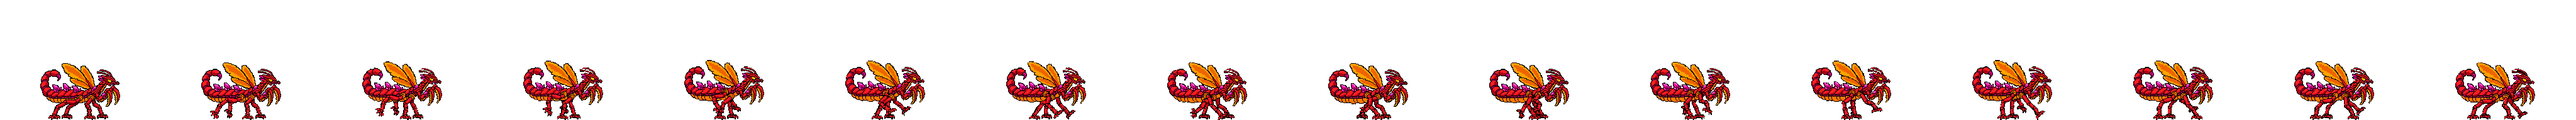
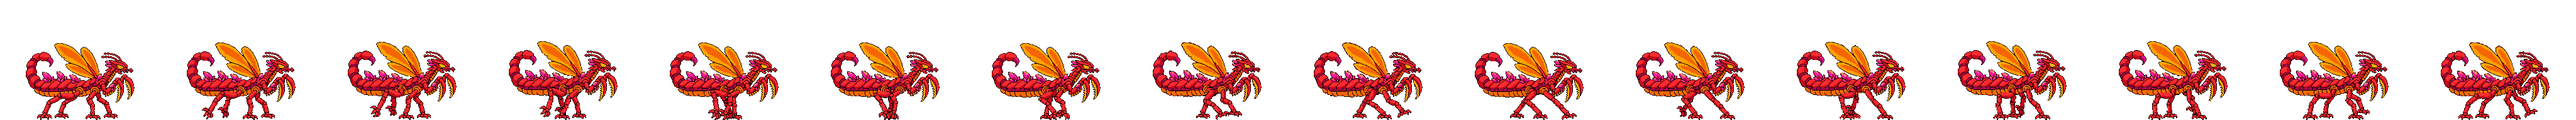
Re-key Myrmex Stage 3 from the thin-outline render, re-roll idle and walk
The user's new render keys to 173x123 at x=41 (was 127x91), reduced to
47 colours. New tools/snap_palette.py snaps strips back to the base
palette: PixelLab draws this outline in dark greys, which clean_greys
would delete. Seed 0 idle and walk, snapped, despecked, walk
bottom-aligned.

Claude-Session: https://claude.ai/code/session_01SJ9dCvdt4BM19y3QYCELUi

Changed region(s): [[0.0, 0.3438, 1.0, 1.0]]

diff --git a/src/presentation.ts b/src/presentation.ts
@@ -82,10 +82,10 @@ const MX2_LEFT={scale:146/256,anchor:15+128*146/256};
 const MX1_NATIVE={scale:116/256,anchor:70+128*116/256};
 // Myrmex Stage 1 attack strips: the same base shifted 40px left (origin at x=30) for room in front of the mandibles.
 const MX1_LEFT={scale:116/256,anchor:30+128*116/256};
-// Myrmex Stage 3 strips: the myrmex-s3 base still, a 127x91 adult (four clawed walking legs, folded scythe forelegs, four orange wasp
-// wings, pink crystals along the back, curled scorpion tail with a magenta stinger) keyed from the user's render with tools/key_render.py
-// --square, origin at x=64 in a 256x192 frame.
-const MX3_NATIVE={scale:127/256,anchor:64+128*127/256};
+// Myrmex Stage 3 strips: the myrmex-s3 base still, a 173x123 adult (four clawed walking legs, folded scythe forelegs, four orange wasp
+// wings, pink crystals along the back, curled scorpion tail with a magenta stinger) keyed from the user's thin-outline render with
+// tools/key_render.py --square and reduced to 47 colours, origin at x=41 in a 256x192 frame.
+const MX3_NATIVE={scale:173/256,anchor:41+128*173/256};
 // Myrmex Stage 3 form (just started): idle and walk; `borrow` plays the Stage 2 strip for every other move.
 const MYRMEX_S3:Form={width:120,borrow:true,anims:{idle:{src:'assets/myrmex-s3-idle.png',frames:8,fps:8,...MX3_NATIVE},
  walk:{src:'assets/myrmex-s3-walk.png',frames:16,fps:15,...MX3_NATIVE}}};

diff --git a/tools/snap_palette.py b/tools/snap_palette.py
@@ -1,0 +1,17 @@
+#!/usr/bin/env python3
+"""Snap every opaque pixel of a strip to the nearest colour (RGB distance) of a base sprite's palette; alpha becomes 0/255.
+Usage: python3 -I tools/snap_palette.py strip.png base.png out.png
+
+PixelLab drifts off a flat base palette: outlines come back as dark greys, edges pick up grey smear. Snapping returns them to the
+base's own colours (dark greys land on the outline black) without deleting anything, so thin outlines and gaps survive. Use it
+on bases already reduced to a small palette (e.g. 48 colours)."""
+import sys, numpy as np
+from PIL import Image
+src, base, out = sys.argv[1:4]
+b = np.asarray(Image.open(base).convert('RGBA')); pal = np.unique(b[b[..., 3] > 0][:, :3], axis=0).astype(int)
+a = np.asarray(Image.open(src).convert('RGBA')).copy(); m = a[..., 3] >= 128
+px = a[m][:, :3].astype(int)
+idx = np.concatenate([((px[i:i + 50000, None, :] - pal[None]) ** 2).sum(2).argmin(1) for i in range(0, len(px), 50000)])
+a[m, :3] = pal[idx]; a[m, 3] = 255; a[~m] = 0
+Image.fromarray(a).save(out, optimize=True)
+print(f'{out}: {m.sum()} px snapped to {len(pal)} colours')

diff --git a/README.md b/README.md
@@ -89,7 +89,7 @@ Score is earned points minus actual HP damage penalty, including healed damage. 
 
 **Myrmex Stage 1 art (complete, registered as `stages[1]`):** `myrmex-s1.png` is the young form: a wingless red ant (glossy segmented abdomen over an orange underbelly, small orange wing buds, a narrow horned skull with a glowing yellow eye and curved mandibles, six long clawed legs, and a short stinger instead of the Stage 2 scorpion tail). Keyed from the user's transparent render with `tools/key_render.py` (grid 11.655x11.995 px per art pixel; `--square` squashed him about 3%, so the measured y period stays) to a 116x74 sprite at x=70, feet on the bottom row of a 256x192 frame (`MX1_NATIVE`: scale 116/256). The stinger tip glowed yellow-orange like Stage 2's and was recoloured to hue 290 at its own lightness (6 pixels) so it reads as poison, not fire. Registered as `MYRMEX_S1` (`stages[1]`, width 120, `borrow`), so every move without Stage 1 art plays the Stage 2 strip. `myrmex-s1-idle` (breathing loop, 8 frames at 8 fps) and `myrmex-s1-walk` (one full stride, 16 frames at 15 fps) are seed 7 PixMiniMax rolls from the base with it as the end pose (seed 0's walk left stray specks; the idles were near-identical); subject "a young red ant kaiju with a segmented glossy red abdomen, orange underbelly, small orange wing buds, horned narrow skull with a glowing yellow eye, curved mandibles, six long clawed legs and a short purple-tipped stinger", pose "standing on six legs facing right, head held level". fill_pinholes and remove_specks (MAX 3); the walk is bottom-aligned (`tools/bottom_align.py`), since it rode up to 6px high mid-stride. `myrmex-s1-run` (Shift / double-tap, 12 frames at 20 fps like Stage 2's) is a seed 0 roll from the base with it as the end pose: a low fast scuttle, legs churning in a tripod gait, head thrust forward (prompt: "fast scuttling run cycle in place: one full stride, legs churning quickly in an alternating tripod gait with long reaching steps, body held low and level, head thrust forward, antennae swept back, no dust or effects"; the user picked it over seed 7 and two 8-frame takes at 15 fps). fill_pinholes, remove_specks (MAX 3), bottom-aligned (it rode 1-2px high). **Jump** (he keeps the floaty jump, two wing-beat air jumps and glide from `MOVE.myrmex*` at every stage, with the wing buds selling it; all seed 7, the user's pick, every strip fill_pinholes / remove_specks (MAX 3) and bottom-aligned since physics moves him): `myrmex-s1-jump-rise` (9 frames at 24 fps, once) is a roll from the base with a free end: he crouches, pushes off, the legs tuck and the wing buds flick up (seed 0 came back down to the street mid-strip); its last frame is the air pose the rest are rolled from. `myrmex-s1-jump-air` (4-frame loop at 12 fps, closed on the air pose) buzzes the buds with the legs dangling; `myrmex-s1-jump-flap` (5 frames at 20 fps, once, played on each air jump as `jumpFlap`, so Stage 1 never flashes the Stage 2 winged flap) snaps the buds up and down as the legs kick; `myrmex-s1-jump-land` (5 frames at 20 fps, once) plants the legs and sinks, its last frame swapped for the exact base so it hands off to the idle cleanly. **Crouch** (shared crouch timing: 5 frames at 22 fps, a 4-frame loop at 6 fps, then the reverse; seed 7, the user's pick, all fill_pinholes / remove_specks (MAX 3) and bottom-aligned): `myrmex-s1-crouch-down` is a roll from the base with a free end that flattens him onto six splayed legs with the head dipped and the wing buds folded, 74px tall down to 48 (0.65, like Stage 2's; seed 0 only reached 56); `myrmex-s1-crouch` is a loop rolled from and closed on that pose (slow breathing, antennae twitching, stinger swaying); `myrmex-s1-crouch-up` is crouch-down reversed. That completes his Stage 1 movement set. **Light combo** (bite, bite, sting; 9 frames each at the shared 24/21/20 fps; PixMiniMax rolls from the base shifted 40px left, origin x=30, `MX1_LEFT`, with it as the end pose, then the exact shifted base appended as frame 9 since the roll's closing duplicate is dropped; the user's picks): `myrmex-s1-light1` (seed 7) rears the head back with the mandibles open, lunges and snaps shut (seed 0 threw a big yellow impact flash that read as fire); `myrmex-s1-light2` (seed 7) dips low and lunges further with the jaws gaping, then wrenches back up (seed 0 drew white slash crescents); `myrmex-s1-light3` (seed 0) is a belly sting: Stage 1's short stinger can't whip overhead like Stage 2's tail, so he curls the abdomen down and forward between his legs and sprays purple venom out ahead, prompted with no fire and no orange (seed 7 put an orange spark on the hit). Bites remove_specks (MAX 3) and fill_pinholes; the sting fill_pinholes only, so the venom spray survives. **Heavy**, a charged belly sting (seed 0, the user's pick; PixMiniMax rolls from the shifted base, `MX1_LEFT`, shared heavy timing, prompts say no fire/orange/yellow; fill_pinholes only so the venom survives): `myrmex-s1-heavy-rear` (5 frames at 20 fps, a free-ended roll) braces the legs and curls the abdomen down under him, a purple bead forming on the stinger; its last frame is the cocked pose; `myrmex-s1-heavy-hold` (4-frame loop at 10 fps, closed on the cocked pose) quivers as the bead swells and drips; `myrmex-s1-heavy-slam` (8 frames at 16 fps: frames 1-7 of a roll from the cocked pose to the shifted base, its first frame (the cocked pose) dropped so the strike starts on release, plus the exact shifted base) blasts a long magenta venom jet into a spiky splash on the street, droplets raining after, and settles (seed 7's thick stream looked like it came from the head). Pound (S+J) reuses the slam. **Venom Bomb** (L, held; the game draws the bomb; PixMiniMax rolls from the shifted base, `MX1_LEFT`; the user's pick after a redo): a first set curled the abdomen under him and swelled the bubble over his body, so the brew was re-rolled with all six feet planted and the body level, the legs straightened to stand him up tall and make room underneath (asking for him to lift his legs flipped him upright like a hanging wasp and floated him off the street in all three seeds). `myrmex-s1-spit-brew` (5 frames at 8 fps, once, seed 7; seed 21 drew a bonfire, seeds 0 and 42 swelled the bubble behind him) stands tall and tucks the abdomen under him as a glossy purple bubble swells on the stinger low between the hind legs; `myrmex-s1-spit-hold` (4-frame loop at 8 fps, closed on that pose, seed 7) wobbles and drips it; `myrmex-s1-spit-throw` (6 frames at 18 fps, `impact:1`, seed 7; seed 0 tipped him over with orange sparks) is frames 2 and 4-7 of a roll from the brew pose to the shifted base plus the exact base: frame 3, where the venom smeared across his body, is dropped, and the flying bubble is erased from the release on (purple pixels away from the body, then anything not connected to him; the bubble's outline over his near foreleg took the foot with it on the release frame). `mouth` [104,172] is the stinger tip on the release frame. fill_pinholes only. **Sting Dive** (his Slam, S in the air; the user's picks over three rounds): a head-first plunge like Stage 2's came first, then the user asked for him to fall stinger-first like an attacking wasp, then for it angled slightly forward. `myrmex-s1-dive` (4 frames at 24 fps, held on the last) is frames 0, 3, 5 and 8 of a seed 21 PixMiniMax roll from the jump-air pose (he swings the abdomen down under him until the stinger points at the street, legs spread, a long purple glow trailing off the stinger; seed 0 shot fire out of the stinger), tilted forward 0/10/20/25 degrees by `tools/rotsprite_tilt.py` (new: RotSprite-style rotation, Scale2x three times then nearest at 8x, sampled at pixel centres, then bottom-aligned) so he leans into the fall with the stinger leading at the back. `myrmex-s1-slam-land` (8 frames at 16 fps) is frames 1-7 of a seed 7 roll from the tilted plunge to the base plus the exact base: the stinger punches into the street in a spiky purple burst, he tips forward onto his legs and stands (both seed 21 landings burst into orange fire). fill_pinholes only. **Climb** (`myrmex-s1-climb-grab/climb/climb-punch/climb-mantle`, 256x256 frames, `MX1_NATIVE`, shared climb timing; seed 7, the user's pick): as with Stage 2, `myrmex-s1-climb` is his own walk strip turned a quarter turn counter-clockwise (head up, belly to the wall, every leg stepping), 16 frames at 15 fps, placed 40px left and 70px down so the feet sit on the wall line at frame x=151 (the hitbox edge: 24 world units out at 116px per 120 units) and the abdomen reaches the bottom row. The grab (5 frames at 20 fps) is frames 0, 2, 3 and 6 of a leap roll from the base padded 64px on top, ending on the turned base pose; the roll leapt right into the wall (out to x=226), so the three mid-leap frames are pulled left until nothing passes the wall line (seed 0 lurched further left). The punch (8 frames at 24 fps, `impact:4`) rears back and slams the mandibles and front claws into the wall with a white flash on frame 4 (seed 0 burst into fire). The mantle (9 frames at 20 fps) is rolled from the turned pose to the padded base, up and over onto his legs, starting 13px back (Stage 2's 17px scaled) and easing to 0 for the roof slide, its last frame the exact padded base. fill_pinholes only. **Grab/carry/throw in the mandibles** (`bite`; seed 0, the user's pick): `myrmex-s1-grab` (9 frames at 22 fps, a PixMiniMax roll from the shifted base, `MX1_LEFT`, plus the exact base) lowers the head to the street, clamps the mandibles and lifts back to standing (seed 7 reached a little further and held the clamp longer). The carry and carry-walk reuse his idle and walk strips with the prop at the jaw tip. `myrmex-s1-throw` (6 frames at 18 fps) is frames 3-7 of a roll plus the base, since the prop launches on the key press: he whips the head forward with the mandibles opening; the roll trailed red and yellow crescent streaks that read as fire, erased by keeping only the pixels connected to him. `hold` is the jaw tip (the rightmost point of the head, searched above the feet so a reaching foreleg doesn't count) on every frame, measured automatically; on the grab the prop waits on the street at the bite spot until the jaws reach it (frame 3). remove_specks (MAX 3), fill_pinholes. **The Swarm (his Ultimate, U;** 256x256 frames, the base padded 64px on top, `MX1_NATIVE`; the game draws the drones; the user's pick): `myrmex-s1-ult-charge` (13 frames at 20 fps = `swarmCharge`, a seed 21 PixMiniMax roll from the padded base prompted for only a little swelling) hunches him as the abdomen pulses purple three times (seed 0 ballooned the abdomen to twice its size; seeds 7 and 42 set him on fire). Every roar, hold and settle PixelLab rolled opened his jaws like a vertebrate roaring, even prompted for closed mandibles, so only the charge supplies his body: `myrmex-s1-ult-roar` (8 frames at 18 fps, `impact:4`) is the last charge frame with the starburst lifted out of a seed 0 roar roll (its magenta, purple and white pixels only) composited over it; where the roll's own body had covered the burst and his doesn't, the gap takes the nearest burst colour, and his body under the burst is tinted magenta as if lit. `mouth` [105,164] is the burst's white core on the impact frame. `myrmex-s1-ult-pound` (4-frame loop at 10 fps) is the charge's last four frames (one pulses); `myrmex-s1-ult-settle` (8 frames at 14 fps) is charge frames 11, 9, 6, 3, 2, 1, 0 plus the exact padded base, the hunch played back to standing. He stays on six legs (no rear-up as Stage 2's does); the burst carries it. That completes Myrmex Stage 1: every move has its own strip (`borrow` stays as a safety net).
 
-**Myrmex Stage 3 art (just started, registered as `stages[3]`):** `myrmex-s3.png` is the adult: a red winged scorpion-ant on four long clawed walking legs, jagged orange-edged scythe forelegs folded under a horned head (glowing yellow eye, long antennae), four orange wasp wings, pink crystal shards along the armoured back over an orange underbelly, and a curled scorpion tail with a magenta stinger (already poison-coloured, no recolour needed). Keyed from the user's transparent render (1536x1024) with `tools/key_render.py --square`: the y measurement locked onto the 5.95px half-period, so the x period (10.965) is reused for y. 127x91 sprite at x=64, feet on the bottom row of a 256x192 frame (`MX3_NATIVE`: scale 127/256). Registered as `MYRMEX_S3` (`stages[3]`, width 120, `borrow`), so every move without Stage 3 art plays the Stage 2 strip. `myrmex-s3-idle` (breathing loop, 8 frames at 8 fps) and `myrmex-s3-walk` (one full stride, 16 frames at 15 fps) are seed 0 PixMiniMax rolls from the base with it as the end pose (seed 7 smeared the antennae); subject "an adult red winged scorpion-ant kaiju: curled scorpion tail with a magenta stinger, pink crystals along a long red armoured back, orange underbelly, four orange wasp wings, horned head with a glowing yellow eye, folded scythe forelegs, four long clawed legs", pose "standing on four legs facing right, scythe forelegs folded, head held high". No fill_pinholes: it read the thin gaps behind the wings, between the legs and around the antennae as cracks and filled them black. Instead `tools/clean_greys.py` strips PixelLab's grey smear (the base has no grey pixels; the walk had ~110 a frame): greys touching the background are deleted, greys enclosed by the body take their most common non-grey neighbour. Then remove_specks (MAX 6); the walk is bottom-aligned (it needed no shift).
+**Myrmex Stage 3 art (just started, registered as `stages[3]`):** `myrmex-s3.png` is the adult: a red winged scorpion-ant on four long clawed walking legs, jagged scythe forelegs folded under a horned head (glowing yellow eye, long antennae), four orange wasp wings, pink crystal shards along the armoured back over an orange underbelly, and a curled scorpion tail with a magenta stinger (already poison-coloured). It's the user's second, thin-outline render (1536x1024, transparent; the first, heavily outlined one keyed to only 127x91 and PixelLab filled its narrow gaps with smear) keyed with `tools/key_render.py --square` (the y rhythm locked onto the half-period, so the x period of 8.02 is reused) to a 173x123 sprite at x=41, feet on the bottom row of a 256x192 frame (`MX3_NATIVE`: scale 173/256), then median-cut from ~5000 colours to 47 so the strips have a flat palette to snap back to. Registered as `MYRMEX_S3` (`stages[3]`, width 120, `borrow`), so every move without Stage 3 art plays the Stage 2 strip. `myrmex-s3-idle` (breathing loop, 8 frames at 8 fps) and `myrmex-s3-walk` (one full stride, 16 frames at 15 fps) are seed 0 PixMiniMax rolls from the base with it as the end pose; subject "an adult red winged scorpion-ant kaiju: curled scorpion tail with a magenta stinger, pink crystals along a long red armoured back, orange underbelly, four orange wasp wings, horned head with a glowing yellow eye, folded scythe forelegs, four long clawed legs", pose "standing on four legs facing right, scythe forelegs folded, head held high". Cleanup: **no fill_pinholes** (it reads the thin gaps behind the wings, between the legs and around the antennae as cracks and fills them black) and **no clean_greys** (PixelLab draws this sprite's outline in dark greys like (32,34,36), which that tool deletes). Instead `tools/snap_palette.py` snaps every pixel to the base's 47 colours, so the grey outline lands back on outline black and the edge smear on the nearest body colour, with nothing deleted; then remove_specks (MAX 4); the walk is bottom-aligned (frames 4-6 dropped 2px). Use the same chain for every Stage 3 strip.
 **Belial Stage 1 art (complete):** `belial-s1.png` is a lean juvenile of the Stage 2 design: slimmer body, short nub spines, thin whip tail, the neck gland reduced to green drool, same grey-green hide and umber tiger stripes. There was no render for it, so it's a PixelLab Pixen edit (`/edit-image-pixen`, seed 7) of the Stage 2 base shrunk to 62% (Lanczos, feet on the bottom row) with a prompt for a younger, smaller, leaner version that keeps the low head, slitted eye and teeth (a first "hatchling" prompt came out big-eyed and cute). It's a 145x54 sprite at x=57, feet on the bottom row of a 256x192 frame (`BL1_NATIVE`: scale 145/256), fill_pinholes only. Registered as `BELIAL_S1` (`stages[1]`, width 120, `borrow`), so every move without Stage 1 art plays the Stage 2 strip. `belial-s1-idle` (breathing loop, 8 frames at 8 fps: head dips, drool drips and falls) and `belial-s1-walk` (stalking crawl, one full four-leg stride in 16 frames at 15 fps, like Stage 2's) are seed 7 PixelLab rolls from the base with it as the end pose (seed 0 was close but steppier); subject "a young lean grey-green reptile kaiju with dark umber-grey tiger stripes, small spikes along its back, a long thin tail, and green acid drool", pose "standing low on all four legs facing right, head held level". fill_pinholes only: remove_specks would eat the falling acid drops. The walk isn't bottom-aligned (it rides 1-2px high mid-stride, like Stage 2's). `belial-s1-run` (8 frames at 15 fps) is a low bounding gallop rolled from the base with it as the end pose (seed 0; seed 7 sat on the base pose for its first three frames): the body stretches long, frame 4 is the flight phase, dust kicks back; fill_pinholes, remove_specks. Jump (`belial-s1-jump-rise/air/land`, 9 frames at 24 fps, a 4-frame loop at 8 fps, 5 frames at 20 fps like the other forms): rise is a roll from the base (seed 7; seed 0 stood up tall mid-squat) that squats, coils the tail up over his back and springs into a level, legs-tucked leap. Air is frames 0,1,2,1 of a 4-frame roll from the rise's last frame (seed 0). Land is frames 1-4 of a roll from that frame with the base as end pose (seed 7) plus the exact base: legs reach down with the tail flung up, then he squashes and stands. Crouch (5 frames at 22 fps, a breathing loop at 6 fps, then the reverse): `belial-s1-crouch-down` is a roll from the base (seed 7; seed 0 grew the spines to adult size) that splays the legs and presses belly and chin flat, 54px tall down to about 32. `belial-s1-crouch` is a roll from that last pose with it as the end pose (seed 7); all five frames are kept, since the fifth is the in-between that closes the loop smoothly. `belial-s1-crouch-up` is crouch-down reversed. Jump and crouch strips: remove_specks (MAX 40, so detached acid drops don't throw off the alignment), bottom_align, fill_pinholes. Light combo (`belial-s1-light1..3`, 8 frames each at 24/21/20 fps, `once`): forward claw swipe, backhand rake, and a gaping lunge that snaps shut in a puff of acid. They're generated from the base shifted 40px left (`BL1_LEFT`, sprite at x=17), with it as first and last frame. Light1 and light3 are seed 0. Light2 is a re-roll (seed 45) with a prompt asking for a thin streak: seed 0 left a grey blob in the slash and seed 7's arc swallowed him. Light3's tail tip grazes the left edge on frame 2 (3px) and its spray the right on frames 5-6. fill_pinholes, remove_specks. Heavy, the scorpion tail strike (`belial-s1-heavy-rear/hold/slam`: 5 frames at 20 fps, a 4-frame loop at 10 fps, 8 frames at 16 fps; 256x256 frames with the shifted base padded 64px on top): rear is a roll from the base (seed 0; seed 7's tail barely cleared his back) that curls the tail up and forward over his back. Hold (seed 0) quivers it, a loop closed on the rear's last frame. Slam is frames 1-8 of a roll from that frame ending on the base (seed 0; seed 7 wound up for two more frames before striking): the tail whips over his head and slashes down in front of the snout in an acid splash, spatter, and he straightens. Rear had its detached drool drop removed (remove_specks MAX 40) before hold and slam were rolled from it. All three: fill_pinholes, remove_specks, bottom_align (PixelLab left them 1px high). Acid Vomit (`belial-s1-vomit-start/aim/end`, 5 frames at 20 fps, 7 aim frames, 4 frames at 16 fps, `BL1_LEFT`): start is frames 1, 2, 4, 5 and 8 of a heave-and-gape roll from the shifted base (seed 0, chosen over seed 7 because its glow swells the throat like Stage 2's gland rather than the belly); frames 6-7 drew their own acid blast and are skipped, and the detached ring of spray left on frame 8 was erased (remove_specks MAX 600), since the game draws the stream. Aim is seven gape frames rolled from that gape (seed 0 both ways; seed 7's raise dripped a stream): frames 2 and 1 of a chin-tuck roll, the gape itself, and frames 2, 4, 6 and 8 of a silent-roar neck-raise roll. As on Stage 2, the mouth opening barely turns as the neck rises, so `angles` [-25,-12,0,8,18,32,45] follow the head-and-neck pose; the tucked frames really point about -30° and -15°, and a deeper -42° tuck was dropped since the aim stops at -25°. `mouth` is the midpoint of the jaw tips read off a grid (a script that took the biggest acid-green blob found the throat glow instead). End is frames 1-3 of a gag-and-snap roll from the gape closed on the shifted base (seed 0, its detached acid crescent erased; seed 7 left splatter stuck to the head) plus the exact shifted base. remove_specks (MAX 40 on aim), fill_pinholes. Acid Pounce: art is 256x256 from the base padded 64px on top (`BL1_NATIVE`). `belial-s1-dive` is frames 0, 5, 7 and 8 of an 8-frame roll from the Stage 1 jump-air pose padded the same way (seed 7; seed 0 reared nose-up for most of the roll before tipping over): he gathers, then tips into a steep nose-down plunge, claws splayed, jaws open, tail whipped up; bottom-aligned, fill_pinholes, held on the last frame. `belial-s1-slam-land` is frames 1-7 of a roll from that plunge with the padded base as end pose (seed 0; seed 7 hung in the air a frame longer before the splash) plus the exact padded base: claws and chest hit in a big acid splash both ways, a belly-flop in the spatter, and he pushes back up. fill_pinholes only, so the droplets survive. The splash spans the frame and grazes its right edge (2-10px) on frames 1-4. Climb (`belial-s1-climb-grab/climb/climb-punch/climb-mantle`, 256x256 with the base padded to 256 tall, `BL1_NATIVE`): a vertical gecko cling, head up, tail hanging to the bottom row, the gripping claws on the wall line at frame x=158 (the hitbox edge, 24 world units out at k=120/145). Grab is frames 0-3 and 8 of a rear-and-leap roll from the padded base (seed 0; seed 7 painted a wall), detached drool dropped, eased 46px left and 99px down onto the wall line (ease 0, .1, .4, .75, 1, so he doesn't slide while still on the ground; the vertical ease is capped so feet never leave the frame). The loop (closed on the cling; the tail lifts up to 9px off the bottom mid-loop), punch (acid-green flash from frame 5, so `impact:5`) and mantle (ends on the exact padded base, starts 17px back for the roof slide, 0.3 x 48 units, easing to 0) are seed 0 rolls from the placed cling frame. PixelLab drew a wall and roof outline on mantle frames 3-6 in two pale shades, 2px wide: detached pieces were removed, 1-2px-wide straight runs of those colours erased, and the stretch crossing his hind leg on frame 3 erased by hand. fill_pinholes, remove_specks (MAX 6). Grab/carry/throw in the jaws (`belial-s1-grab/carry/carry-walk/throw`, 256x256 from the left-shifted base padded 64px on top, `BL1_LEFT`): the grab (seed 7; seed 0 lifted sooner and lower) gapes, drops the head to the street to bite, and hauls the neck up with the jaws clamped; acid puddles PixelLab left on the street under the jaws (frames 2-6) were erased. Carry (strain loop, 4 frames at 6 fps) and carry-walk (one four-leg stalking stride, head held up, 8 frames at 10 fps) are seed 0 loops from the lift frame. The throw is frames 2-7 of a roll from it (seed 7; seed 0 glitched a brown crest onto the head) plus the exact shifted base: the jaws spring open in an acid burst (detached arcs erased, remove_specks MAX 600) and he settles. Frames 0-1 only held the pose, and the prop launches on the key press. `bite` is set; each `hold` is where the jaws close, read off a grid: the bite spot on the street for frames 0-5 (around (160,248)), then following the jaws up to (141,204). Carry and carry-walk use the same offset from the snout tip as the lift frame. Acid Deluge, his Ultimate (`belial-s1-ult-charge/roar/pound/settle`, 256x256 from the base padded to 256 tall, `BL1_NATIVE`): charge is 13 frames at 20 fps (= `delugeCharge`), a roll from the base (seed 7; seed 0's sac ballooned so big it hunched his whole body). The throat swells into a huge glowing sac as he plants and heaves. Roar is 9 frames at 18 fps from the last charge frame (seed 0, prompted as a silent roar at the sky; its detached acid spray was erased, while seed 7's spray was fused to the mouth): he rears straight up onto hind legs and tail, jaws open at the sky. He's fully reared on frame 2, so `impact:2` (Stage 2's is 4), and the geyser goes up 0.11s into the roar instead of 0.22s. Pound is a 4-frame pumping hold closed on the roar's last frame (seed 0). Settle is frames 2-7 of a roll back to the base (seed 0) plus the exact base, 7 frames at 14 fps. `mouth` (112,148) is the midpoint of the jaw tips on every reared frame and the hold. `pound` (S+J) points at his Stage 1 heavy slam, as on Stage 2. Cleanup: remove_specks, bottom_align, fill_pinholes. With this, Belial's Stage 1 form has every move; `borrow` stays as a safety net.
 **Belial Stage 3 art (complete, registered as `stages[3]`):** `belial-s3.png` is the adult: hunched up on his hind legs with clawed arms forward, the Stage 2 grey-green hide and umber-grey stripes, big umber blade spines down the back and tail, clusters of pink crystal shards between the back spines and one on the arm, a lime acid gland on the neck and lime drool. It's the user's transparent render (1672x941) keyed with `tools/key_render.py --period 8.04`: the automatic measurement locked onto the 4.09px half-period on x (and 7.34 on y), and the render's stair-steps are about 8px both ways, so the period is forced square (8.04 is the x spectrum's own peak) and only the phase is measured. 200x113 sprite at x=28, feet on the bottom row of a 256x192 frame (`BL3_NATIVE`: scale 200/256). The render came out olive with saturated rust spines, an orange gland and ~6000 colours of glossy shading, so it didn't read as the same creature; `tools/belial_s3_restyle.py` remaps it onto the Stage 2 palette by class (hide to hue 95/sat .14, spines and stripes to hue 24/sat .22, gland/drool/claws to Stage 2's lime, hue 68/sat .7; crystals and outline untouched, lightness kept) and median-cuts it to 48 colours (45 used) to flatten the gloss. Run it on the keyed render, not on strips. Registered as `BELIAL_S3` (`stages[3]`, width 120); every move has its own strip, and `borrow` stays as a safety net for strips added to Stage 2 later. `belial-s3-idle` (8 frames at 8 fps) and `belial-s3-walk` (one full stride in 16 frames at 15 fps) are seed 0 PixelLab rolls from the restyled base with it as the end pose; they keep the palette without a recolour (hide median hue 93-94, sat .14). Subject "a huge muscular semi-upright grey-green reptile kaiju with dark umber-grey stripes, large umber-brown blade spines down its back and tail, pink crystal shards growing between the back spines, a yellow-green acid gland on the neck and yellow-green acid drool", pose "standing hunched on its hind legs facing right, clawed arms held forward, long tail straight out behind". fill_pinholes only, so the drool drops survive; the walk rides 1-2px high mid-stride like the other forms'. `belial-s3-run` (8 frames at 15 fps) is skeleton-posed, like Tlézcatl Stage 3's: the first text-prompted roll limped (each foot stepped around its own spot and the arms didn't alternate). `tools/belial-s3-skeleton.json` is PixelLab's `/estimate-skeleton` on the base pasted at y=64 in a 256x256 frame; `tools/belial_s3_run_poses.py` (adapted from `tlezcatl_s3_run_poses.py`; hips pulled onto one pelvis, ankle line y=243, stride centre x=150, thigh/shin 22/21) runs both feet on the same cycle half a beat apart, with a flight phase at full extension, the body pitched forward 8° and sinking over the planted leg, and the arms pumping opposite the legs. Rendered with `tools/pixellab_skeleton.py` (`/animate-with-skeleton-v3`, seed 7; seed 0 painted the far leg as a smeared blob on frames 5-6), the bottom 192 rows cropped so it lines up with `BL3_NATIVE`, fill_pinholes. Jump (`belial-s3-jump-rise/air/land`, 9 frames at 24 fps, a 4-frame loop at 8 fps, 5 frames at 20 fps like the other forms): rise is a roll from the base that sinks onto bent legs with the arms swung back and springs off both feet into a level, legs-tucked leap; air is frames 0,1,2,1 of a 4-frame roll from the rise's last frame (only the tail sways); land is frames 1-4 of a roll from that frame with the base as end pose (reaches down, hits with the tail flung up, squashes) plus the exact base. Crouch (5 frames at 22 fps, a 4-frame breathing loop at 6 fps, then the reverse): `belial-s3-crouch-down` drops from the hunch onto all fours with belly and chin low, 113px tall to about 92 (the spine crest and crystals stay up; the hitbox is `crouchHeight`, not the art); `belial-s3-crouch` is a breathing loop rolled from that last pose with it as the end pose; `belial-s3-crouch-up` is crouch-down reversed. Jump and crouch: remove_specks, bottom_align, fill_pinholes. All seed 0, one roll each, same subject as the idle. Light combo (`belial-s3-light1..3`, 8 frames each at 24/21/20 fps, `once`, like Stage 2's), from the base shifted flush left (`BL3_LEFT`, sprite at x=0, 28px more reach). The two swipes use one hand each: text prompts for "near claw" and "far claw" drew both with the same hand, so they're skeleton-posed. `tools/belial_s3_light_poses.py` moves only one arm of the estimated skeleton (shifted 28px left; the estimate marks the RIGHT arm near, z 0, and the LEFT far, z -4), with the upper body pitching into the strike, over 7 frames ending in the base pose. Light1 (`near`) raises the near hand over the head and rakes it down and across with a lime streak; light2 (`far`) shoots the far hand out past the snout from behind the jaw, the body lunging after it, and hooks it down with a lime crescent. Rendered with `/animate-with-skeleton-v3` (seed 0, description mentions the acid-green slash streak) and prefixed with the shifted base. Light1's streak is still fading on its last frame. Light3 (seed 0) snaps shut in a puff of acid. Light3's puff grazes the right edge for a frame or two. Heavy, the scorpion tail strike (`belial-s3-heavy-rear/hold/slam`: 5 frames at 20 fps, a 4-frame loop at 10 fps, 8 frames at 16 fps; 256x256 from the shifted base): his tail ends in a big hooked blade, larger than Stage 1's or 2's. Rear is a seed 7 roll (seed 0 only lifted the blade to the shoulder spines) that swings the tail up into a tall curl with the blade above his head, pointing forward. The hold and slam are rolled from rear's last frame; the slam ends on the shifted base and its first frame (the hold pose) is dropped. The slam's first strike frame drew a pink-and-white arc; that floating smear (2436 px, mostly ringed by transparency, not outline) was recoloured to the lime of the light slashes. The arc grazes the right edge on frames 0-4. Lights and heavy: fill_pinholes, remove_specks. Acid Vomit (`belial-s3-vomit-start/aim/end`, 5 frames at 20 fps, 7 aim frames, 4 frames at 16 fps, `BL3_LEFT`): start is frames 1, 3, 4, 5 and 8 of a heave-and-gape roll from the shifted base (seed 0; the prompt avoids the word vomit so PixelLab doesn't draw its own stream). Its swell frames painted the gland as a flat pure-yellow disc, so those pixels were repainted from frame 0's ribbed gland at 1.45x lightness (a glowing gland, not a sticker); the detached spray on frame 8 was erased (remove_specks MAX 60). Aim keeps the gape at seven head angles: frame 3 of a seed 7 chin-tuck roll (-25), frame 1 of a seed 0 chin-tuck roll (-12; its later frames shut the jaws), the gape itself (0), and frames 2, 4, 6 and 8 of a silent-roar neck-raise roll (8, 18, 32, 45). A skeleton-posed aim pass (`tools/belial_s3_aim_poses.py`, head turned about the neck, neck and shoulders following at 40%) got the angles but closed the jaws and lost the head spines on the high frames, so it wasn't used. `mouth` is the midpoint of the jaw tips read off a 4px grid. End is frames 1-3 of a gag-and-snap roll from the gape closed on the shifted base (tongue lashes out, jaws snap shut) plus the exact shifted base. remove_specks (MAX 40 on aim), fill_pinholes. Acid Pounce (256x256 from the base padded 64px on top, `BL3_NATIVE`): `belial-s3-dive` is frames 0, 3, 5 and 7 of an 8-frame roll from the Stage 3 jump-air pose padded the same way (seed 0): he gathers, then tips into a steep nose-down plunge, claws reaching, jaws open, tail whipped up; bottom-aligned, fill_pinholes, remove_specks, held on the last frame. `belial-s3-slam-land` is frames 1-7 of a roll from that plunge with the padded base as end pose (seed 0) plus the exact base: claws and chest hit, a huge lime splash bursts both ways (frame 2 nearly hides him), splash rings and spatter fly, he belly-flops and pushes back up into the hunch; fill_pinholes only, so the droplets survive. Climb (`belial-s3-climb-grab/climb/climb-punch/climb-mantle`, 256x256 with the base padded to 256 tall, `BL3_NATIVE`): a vertical gecko cling, back to the street, head up, tail hanging to the bottom row, the gripping claws on the wall line at frame x=168 (the hitbox edge, 24 world units out at k=120/200). Grab is frames 0, 2, 3, 4 and 8 of a crouch-and-leap roll from the padded base (seed 0), eased 87px left and 42px down onto the wall line (ease 0, .1, .4, .75, 1; the vertical ease is capped so feet never leave the frame). The loop (closed on the cling) and punch (lime flash from frame 4, so `impact:4`; it spikes past the top of the frame on frames 5-6) are seed 0 rolls from the placed cling. The mantle is a seed 7 roll from the cling to the padded base, shifted 24px back on its first frame and easing to 0 (the roof slide, 0.3 x 48 units): the seed 0 roll drew a dark roof-ledge bar under the claws on frames 1-7, and the re-roll's prompt leaves out "edge" and "rooftop" and asks for no ground or ledge. fill_pinholes, remove_specks (MAX 6). Grab/carry/throw (`belial-s3-grab/carry/carry-walk/throw`, 256x256 from the base padded to 256 tall, `BL3_NATIVE`): he's bipedal now, so he lifts in both claws like Tlézcatl Stage 3, not in the jaws (no `bite`). All generated without any object, since the game draws the prop. The grab (9 frames at 22 fps, seed 0) bends over and scoops both claws along the street, rears up and raises both arms straight up with the claws together overhead, head tipped back. The carry (4-frame strain loop at 6 fps, seed 0) is rolled from that last frame and closed on it. The text-prompted carry-walk limped (the near foot stayed planted while only the far leg swung), so it's skeleton-posed: `tools/belial-s3-carry-skeleton.json` is `/estimate-skeleton` on the lift frame, with the near arm (dropped to his side by the estimate) set by hand up to the joined claws, and `tools/belial_s3_carry_walk_poses.py` runs both feet on one step cycle half a beat apart from the lift pose's own stance, so the 8-frame loop (10 fps) closes on it, with the body bobbing up as the legs pass. The throw (8 frames at 18 fps) is frames 1-7 of a roll from the lift frame to the padded base plus the exact base: both arms whip forward and down. Its swooshes on frames 1-2 came out brown, so the largest warm component on each (1394 and 2014 px, far bigger than any spine) was recoloured to the light slashes' lime. `hold` is the prop's bottom centre: on the street under the front claws for frames 0-4, following the hands up on 5-7, then the top of the joined claws, measured per frame on the carry loops. fill_pinholes, remove_specks (MAX 6). Acid Deluge, his Ultimate (`belial-s3-ult-charge/roar/pound/settle`, 256x256 from the base padded to 256 tall, `BL3_NATIVE`): charge is 13 frames at 20 fps (= `delugeCharge`), a seed 0 roll from the base: he plants and heaves while the neck gland swells into a huge, properly shaded sac. Roar is 9 frames at 18 fps from the last charge frame (seed 0, a silent roar at the sky): he rears straight up on his hind legs to the top of the frame (head at y=1-2, not clipped), sac squeezing, jaws thrown open at the sky. He's fully reared on frame 2, so `impact:2`, like Stage 1. Pound is a 4-frame pumping hold closed on the roar's last frame (seed 0). Settle is frames 2-7 of a roll back to the base (seed 0) plus the exact base, 7 frames at 14 fps: the sac shrinks, the jaws snap shut and he drops back into the hunch. `mouth` (136,18) is the midpoint of the jaw tips on every reared frame and the hold. `pound` (S+J) points at his Stage 3 heavy slam, as on Stages 1 and 2. Cleanup: remove_specks, bottom_align, fill_pinholes. With this, Belial's Stage 3 form has every move. `tools/pixellab_edit.py` wraps the Pixen edit endpoint used for Stage 1's base (Pixen candidates for Stage 3 were tried before the render arrived).
 
